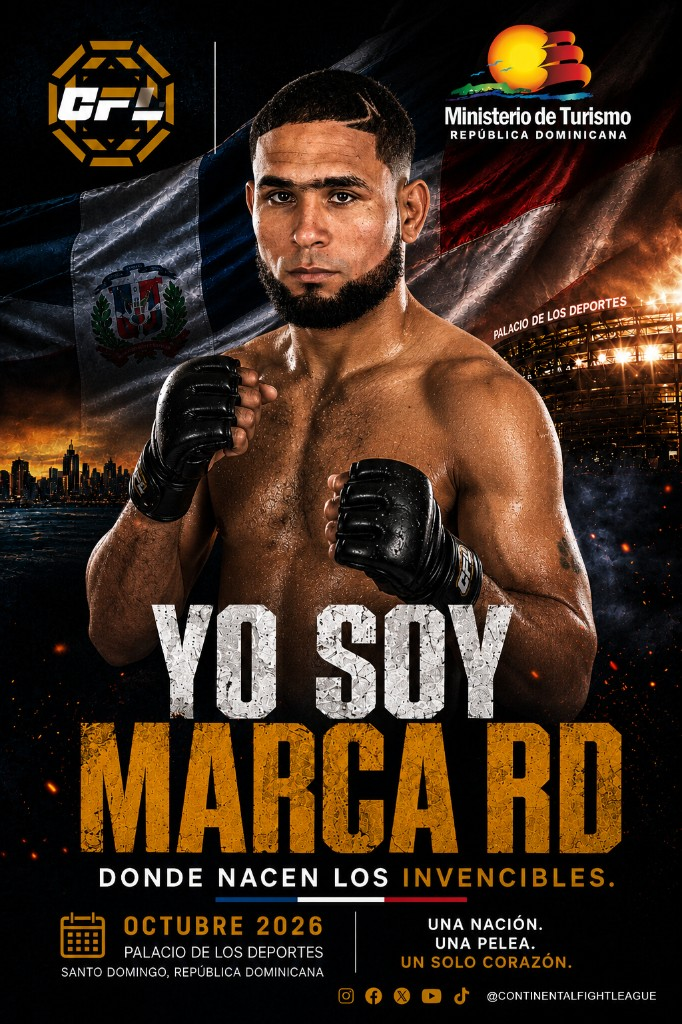
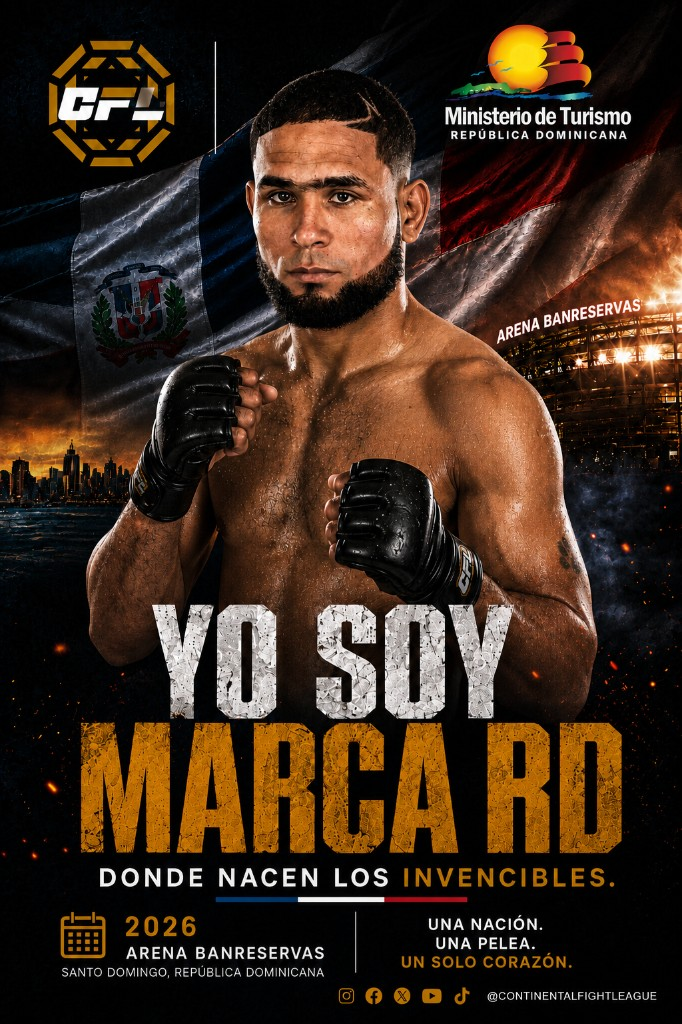
Update event poster and venue to Arena Banreservas.

diff --git a/i18n.js b/i18n.js
@@ -1,7 +1,7 @@
 const CFL_I18N = {
   es: {
     meta_description: "Continental Fight League: boxeo, MMA y entretenimiento internacional desde Santo Domingo, República Dominicana.",
-    meta_description_tickets: "Boletos CFL Santo Domingo Premiere — próximamente. 24 octubre 2026, Palacio de los Deportes.",
+    meta_description_tickets: "Boletos CFL Santo Domingo Premiere — próximamente. 24 octubre 2026, Arena Banreservas.",
     title_home: "CFL | Continental Fight League",
     title_tickets: "Boletos | CFL Continental Fight League",
     skip: "Saltar al contenido",
@@ -32,7 +32,7 @@ const CFL_I18N = {
     hero2_caption: "CFL Fight Night · Boxeo",
     hero3_eyebrow: "Talento dominicano",
     hero3_title: "Una nación. Una pelea. Un solo corazón",
-    hero3_copy: "CFL proyecta a los atletas dominicanos y convierte el Palacio de los Deportes en una vitrina global.",
+    hero3_copy: "CFL proyecta a los atletas dominicanos y convierte la Arena Banreservas en una vitrina global.",
     hero3_cta1: "Ver atletas",
     hero3_cta2: "Nuestra visión",
     hero3_caption: "CFL Fight Night · MMA",
@@ -57,7 +57,7 @@ const CFL_I18N = {
     tickets_link: "Boletos",
     event_eyebrow: "Fight night",
     event_title: "CFL Santo Domingo premiere",
-    event_venue: "Palacio de los Deportes · Santo Domingo, RD · 7:00 pm AST",
+    event_venue: "Arena Banreservas · Santo Domingo, RD · 7:00 pm AST",
     event_info: "Info del evento",
     roster_eyebrow: "Talento CFL",
     roster_title: "Atletas",
@@ -110,7 +110,7 @@ const CFL_I18N = {
     tickets_date_label: "Fecha",
     tickets_date_value: "24 octubre 2026 · 7:00 pm AST",
     tickets_venue_label: "Venue",
-    tickets_venue_value: "Palacio de los Deportes, Santo Domingo",
+    tickets_venue_value: "Arena Banreservas, Santo Domingo",
     tickets_notify: "Avísame",
     tickets_note: "Te avisaremos cuando los boletos estén disponibles. Formulario de demostración.",
     tickets_view_event: "Ver evento",
@@ -136,7 +136,7 @@ const CFL_I18N = {
   },
   en: {
     meta_description: "Continental Fight League: boxing, MMA, and international entertainment from Santo Domingo, Dominican Republic.",
-    meta_description_tickets: "CFL Santo Domingo Premiere tickets — coming soon. October 24, 2026, Palacio de los Deportes.",
+    meta_description_tickets: "CFL Santo Domingo Premiere tickets — coming soon. October 24, 2026, Arena Banreservas.",
     title_home: "CFL | Continental Fight League",
     title_tickets: "Tickets | CFL Continental Fight League",
     skip: "Skip to content",
@@ -167,7 +167,7 @@ const CFL_I18N = {
     hero2_caption: "CFL Fight Night · Boxing",
     hero3_eyebrow: "Dominican talent",
     hero3_title: "One nation. One fight. One heart",
-    hero3_copy: "CFL elevates Dominican athletes and turns the Palacio de los Deportes into a global stage.",
+    hero3_copy: "CFL elevates Dominican athletes and turns Arena Banreservas into a global stage.",
     hero3_cta1: "View fighters",
     hero3_cta2: "Our vision",
     hero3_caption: "CFL Fight Night · MMA",
@@ -192,7 +192,7 @@ const CFL_I18N = {
     tickets_link: "Tickets",
     event_eyebrow: "Fight night",
     event_title: "CFL Santo Domingo premiere",
-    event_venue: "Palacio de los Deportes · Santo Domingo, DR · 7:00 pm AST",
+    event_venue: "Arena Banreservas · Santo Domingo, DR · 7:00 pm AST",
     event_info: "Event info",
     roster_eyebrow: "CFL talent",
     roster_title: "Fighters",
@@ -245,7 +245,7 @@ const CFL_I18N = {
     tickets_date_label: "Date",
     tickets_date_value: "October 24, 2026 · 7:00 pm AST",
     tickets_venue_label: "Venue",
-    tickets_venue_value: "Palacio de los Deportes, Santo Domingo",
+    tickets_venue_value: "Arena Banreservas, Santo Domingo",
     tickets_notify: "Notify me",
     tickets_note: "We'll let you know when tickets are available. Demo form.",
     tickets_view_event: "View event",

diff --git a/index.html b/index.html
@@ -96,7 +96,7 @@
           <div class="hero-content reveal">
             <p class="eyebrow" data-i18n="hero3_eyebrow">Talento dominicano</p>
             <h2 data-i18n="hero3_title">Una nación. Una pelea. Un solo corazón</h2>
-            <p class="hero-copy" data-i18n="hero3_copy">CFL proyecta a los atletas dominicanos y convierte el Palacio de los Deportes en una vitrina global.</p>
+            <p class="hero-copy" data-i18n="hero3_copy">CFL proyecta a los atletas dominicanos y convierte la Arena Banreservas en una vitrina global.</p>
             <div class="hero-actions">
               <a class="button button-primary" href="#talento" data-i18n="hero3_cta1">Ver atletas</a>
               <a class="button button-ghost" href="#nosotros" data-i18n="hero3_cta2">Nuestra visión</a>
@@ -146,7 +146,7 @@
 
       <article class="event-card reveal">
         <div class="event-card-media">
-          <img src="assets/marca-rd-poster.png" alt="CFL Santo Domingo Premiere — Yo Soy Marca RD" loading="lazy" />
+          <img src="assets/marca-rd-poster.png?v=2" alt="CFL Santo Domingo Premiere — Yo Soy Marca RD" loading="lazy" />
           <div class="event-date-badge">
             <span>24</span>
             <strong>oct</strong>
@@ -155,7 +155,7 @@
         <div class="event-card-body">
           <p class="eyebrow" data-i18n="event_eyebrow">Fight night</p>
           <h3 data-i18n="event_title">CFL Santo Domingo premiere</h3>
-          <p class="event-venue" data-i18n="event_venue">Palacio de los Deportes · Santo Domingo, RD · 7:00 pm AST</p>
+          <p class="event-venue" data-i18n="event_venue">Arena Banreservas · Santo Domingo, RD · 7:00 pm AST</p>
           <div class="event-card-countdown" data-countdown data-date="2026-10-24T19:00:00-04:00">
             <div><strong data-days>00</strong><span data-i18n="days">días</span></div>
             <div><strong data-hours>00</strong><span data-i18n="hours">hrs</span></div>
@@ -254,7 +254,7 @@
         <a class="button button-light" href="#registro" data-i18n="belief_cta">Únete a la comunidad</a>
       </div>
       <div class="brand-story-art reveal">
-        <img src="assets/marca-rd-poster.png" alt="Yo Soy Marca RD, campaña de CFL y República Dominicana" loading="lazy" />
+        <img src="assets/marca-rd-poster.png?v=2" alt="Yo Soy Marca RD, campaña de CFL y República Dominicana" loading="lazy" />
       </div>
       <div class="brand-story-word" aria-hidden="true" data-i18n="brand_word">Invencibles</div>
     </section>
@@ -294,7 +294,7 @@
           </article>
           <article class="news-row reveal">
             <a href="#registro">
-              <img src="assets/marca-rd-poster.png" alt="Campaña Yo Soy Marca RD" loading="lazy" />
+              <img src="assets/marca-rd-poster.png?v=2" alt="Campaña Yo Soy Marca RD" loading="lazy" />
               <div>
                 <span data-i18n="news3_tag">Marca país</span>
                 <h3 data-i18n="news3_title">“Yo Soy Marca RD”: deporte, orgullo y promoción internacional.</h3>

diff --git a/tickets.html b/tickets.html
@@ -4,7 +4,7 @@
   <meta charset="utf-8" />
   <meta name="viewport" content="width=device-width, initial-scale=1" />
   <meta name="theme-color" content="#070707" />
-  <meta name="description" content="CFL Santo Domingo Premiere tickets — coming soon. October 24, 2026, Palacio de los Deportes." />
+  <meta name="description" content="CFL Santo Domingo Premiere tickets — coming soon. October 24, 2026, Arena Banreservas." />
   <title>Tickets | CFL Continental Fight League</title>
   <link rel="icon" href="assets/favicon.png?v=5" type="image/png" />
   <link rel="apple-touch-icon" href="assets/apple-touch-icon.png?v=5" />
@@ -76,7 +76,7 @@
           </div>
           <div>
             <dt data-i18n="tickets_venue_label">Venue</dt>
-            <dd data-i18n="tickets_venue_value">Palacio de los Deportes, Santo Domingo</dd>
+            <dd data-i18n="tickets_venue_value">Arena Banreservas, Santo Domingo</dd>
           </div>
         </dl>
 
